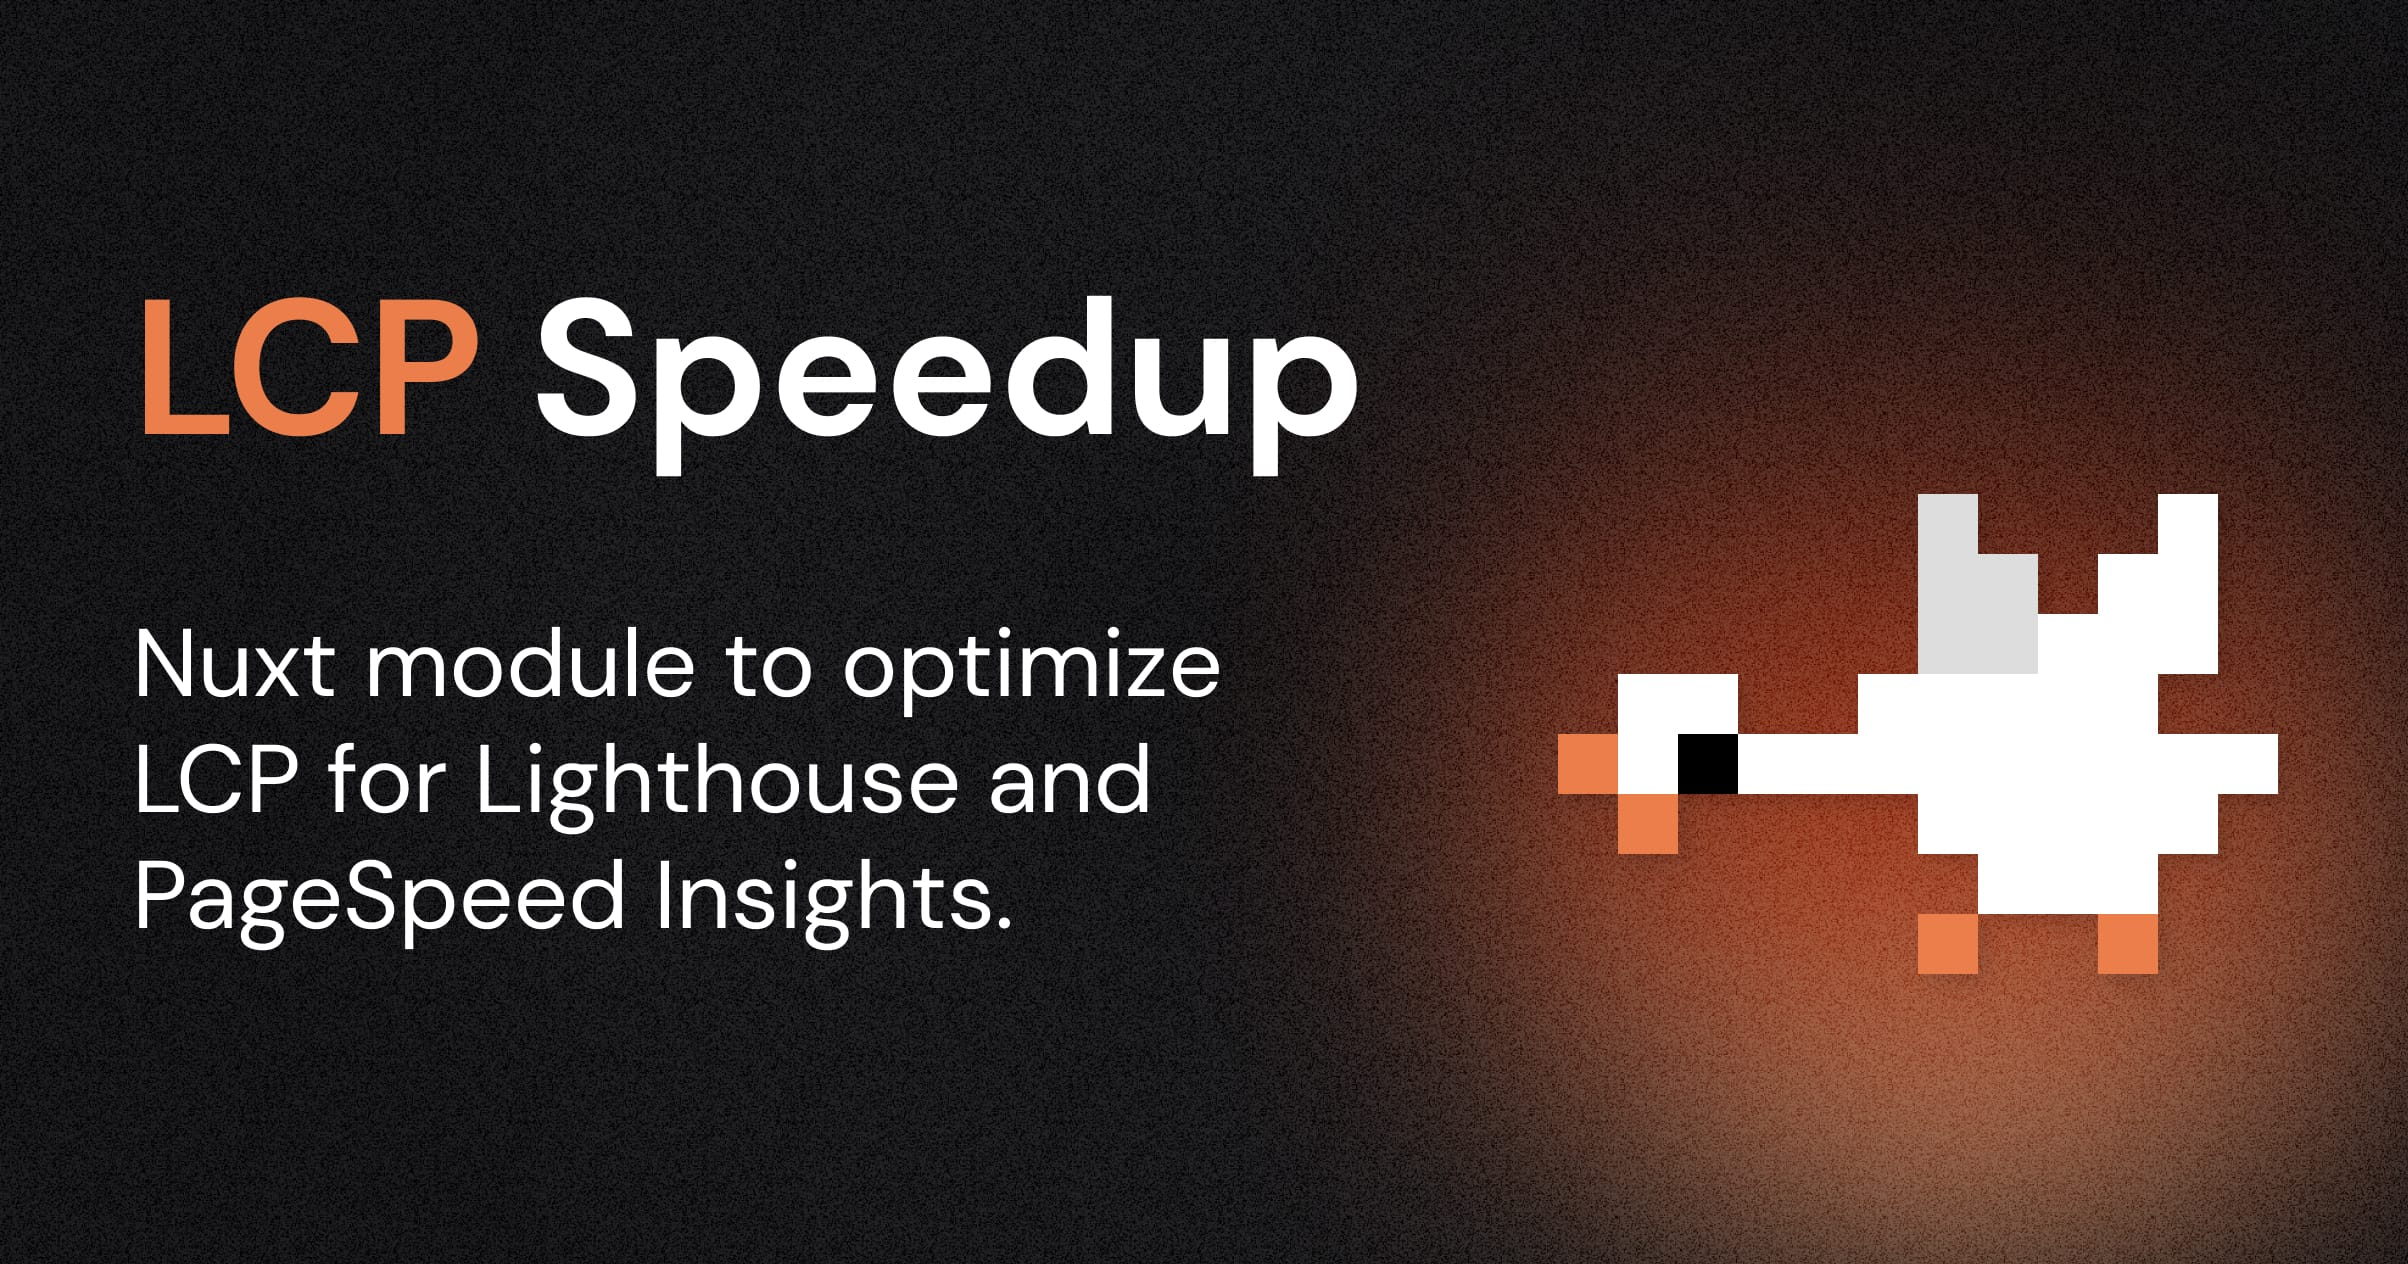
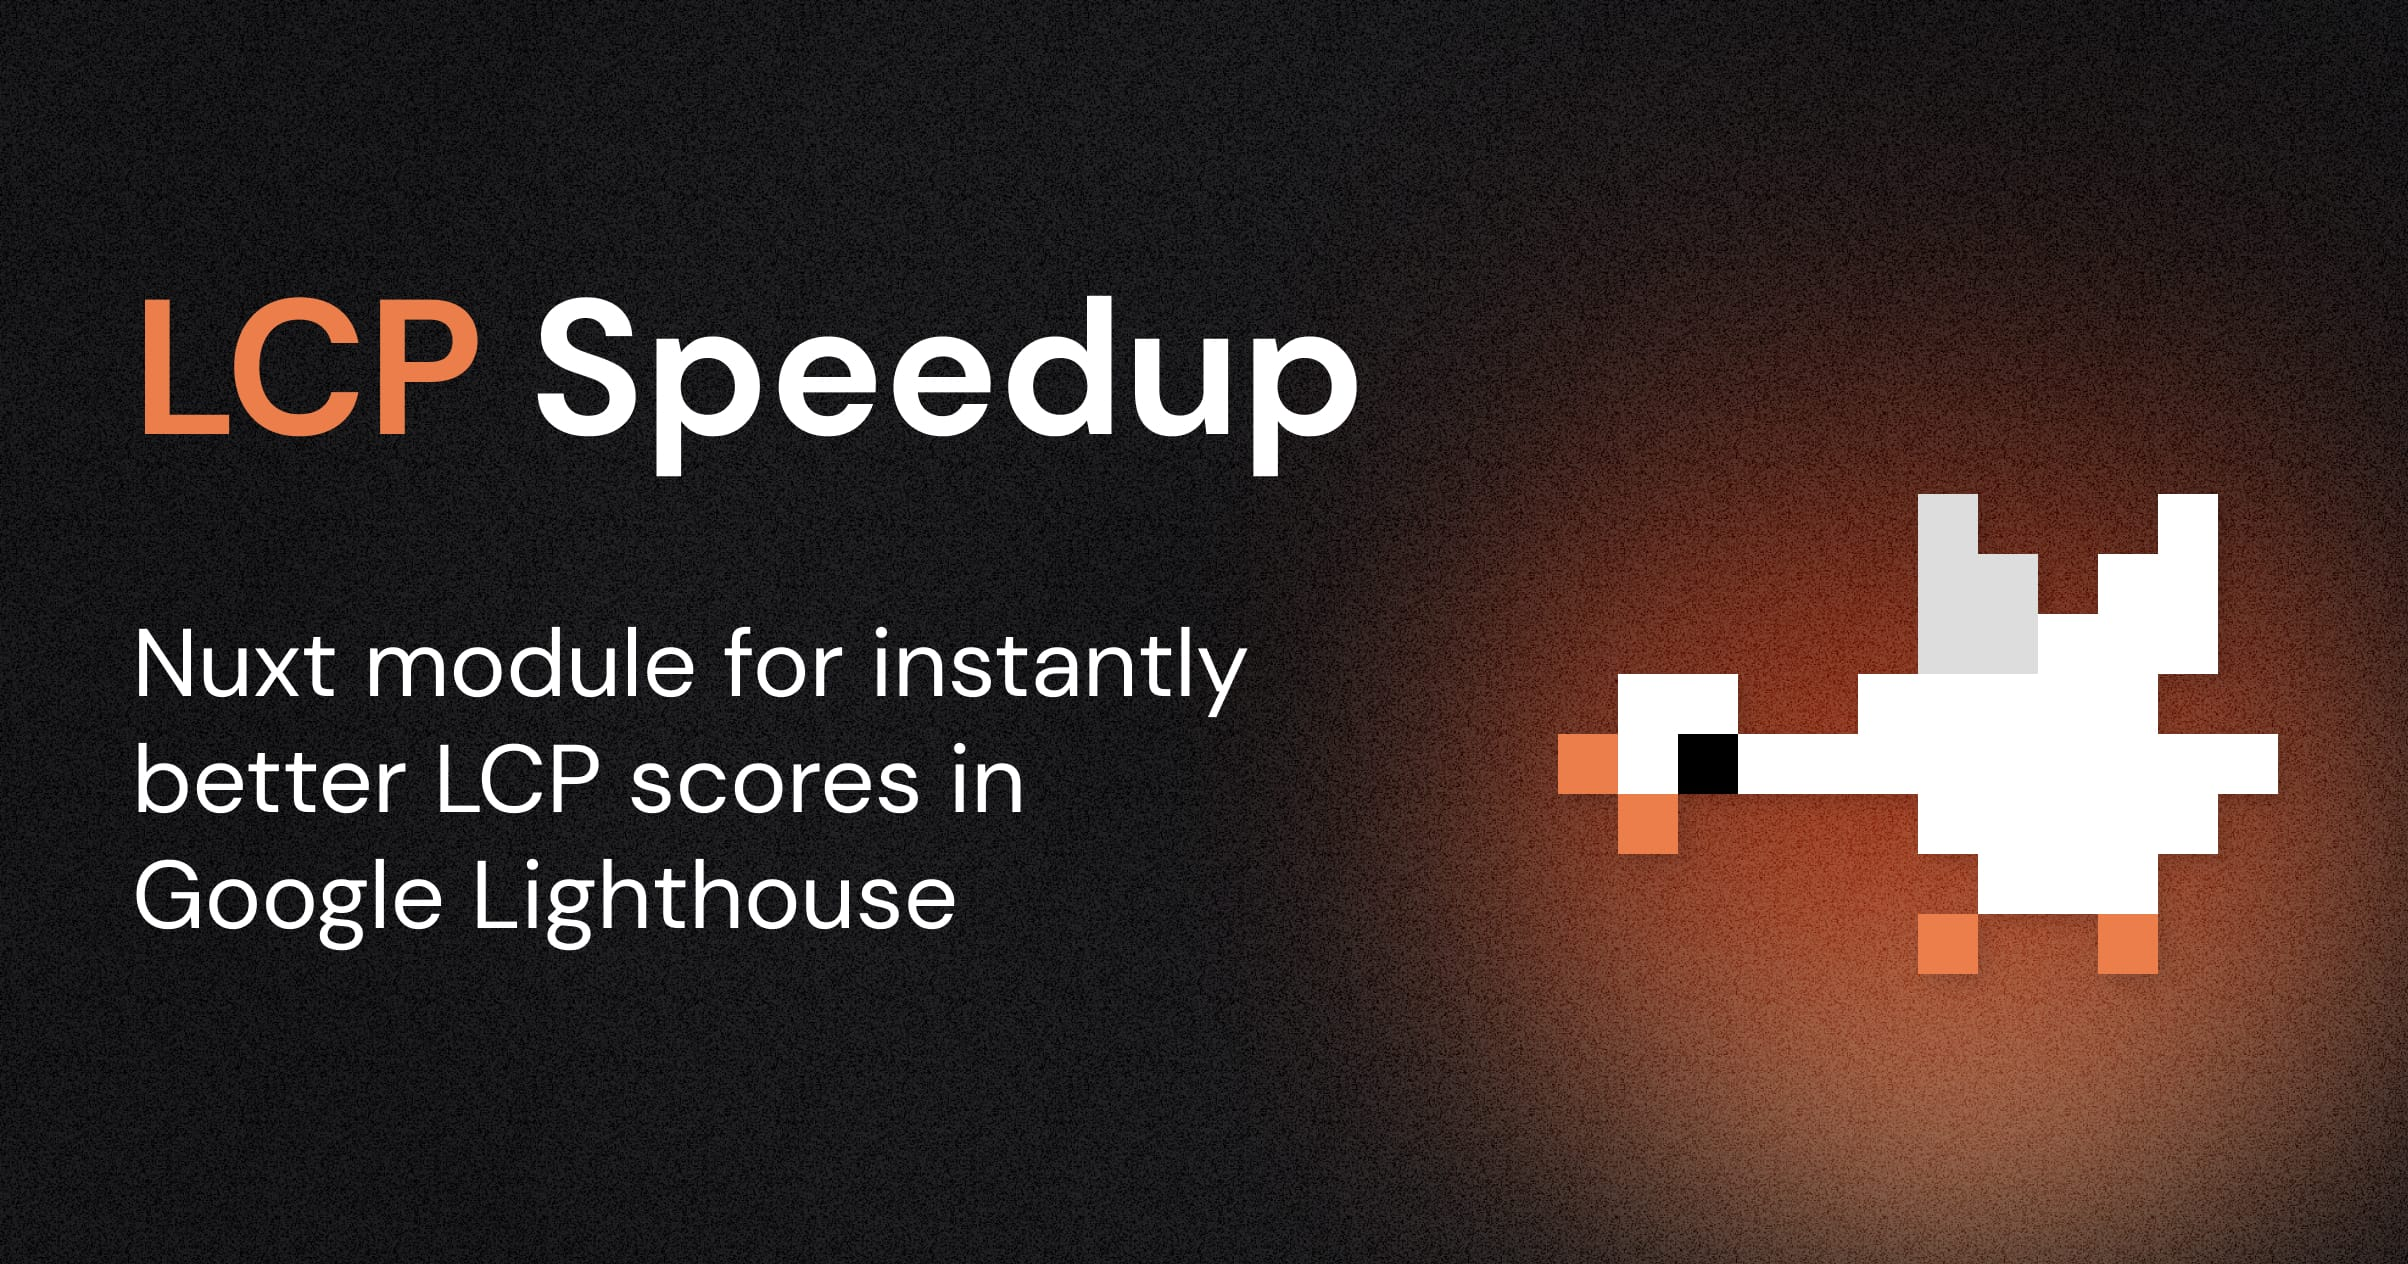
feat: `disableEntryStylesheet` to stop render-blocking css

Changed region(s): [[0.0623, 0.5862, 0.4983, 0.7714], [0.2803, 0.4937, 0.5295, 0.5554]]

diff --git a/src/module.ts b/src/module.ts
@@ -5,18 +5,24 @@ import { name } from '../package.json'
 
 export interface ModuleOptions {
   /**
-   * Whether to disable prefetching of dynamic imports and image assets to optimize the LCP score.
+   * Whether to remove prefetch links from the HTML. If set to `dynamicImports`, only dynamic imports will be removed. To disable all prefetching, set to `true`.
    *
-   * @default true
+   * @remarks
+   * This will prevent the browser from downloading chunks that may not be needed yet. This can be useful for improving the LCP (Largest Contentful Paint) score.
+   *
+   * @default 'dynamicImports'
    */
-  disablePrefetching?: boolean
+  disablePrefetchLinks?: boolean | 'dynamicImports'
 
   /**
-   * List of assets extensions that should not be prefetched.
+   * Whether to remove the render-blocking `entry.<hash>.css` stylesheet from the HTML. Especially useful when styles are inlined during SSR rendering.
    *
-   * @default ['gif', 'jpg', 'jpeg', 'png', 'svg', 'webp']
+   * @remarks
+   * This requires to have the Nuxt `inlineStyles` feature enabled. Make sure to test your application after enabling this option.
+   *
+   * @default false
    */
-  assetExtensions?: string[]
+  disableEntryStylesheet?: boolean
 
   /**
    * Options for the `DelayHydration` component.
@@ -49,8 +55,8 @@ export default defineNuxtModule<ModuleOptions>({
     configKey: 'lcpSpeedup',
   },
   defaults: {
-    disablePrefetching: true,
-    assetExtensions: ['gif', 'jpg', 'jpeg', 'png', 'svg', 'webp'],
+    disablePrefetchLinks: 'dynamicImports',
+    disableEntryStylesheet: false,
     delayHydration: {},
   },
   async setup(options, nuxt) {
@@ -100,22 +106,29 @@ export declare const delayHydrationOptions: Required<Required<ModuleOptions>['de
       },
     })
 
-    if (!nuxt.options._prepare && options.disablePrefetching) {
-      nuxt.hooks.hook('build:manifest', (manifest) => {
-        for (const file of Object.values(manifest)) {
-          // Remove all prefetch links from the manifest
-          file.dynamicImports = []
+    if (nuxt.options._prepare || nuxt.options.dev) return
 
-          // Remove all prefetch assets from the manifest
-          if (file.assets) {
-            file.assets = file.assets.filter(
-              asset => options.assetExtensions!.every(ext => !asset.endsWith(`.${ext}`)),
-            )
+    nuxt.hooks.hook('build:manifest', (manifest) => {
+      for (const item of Object.values(manifest)) {
+        if (options.disablePrefetchLinks) {
+          item.dynamicImports = []
+        }
+
+        if (options.disablePrefetchLinks === true) {
+          item.prefetch = false
+        }
+
+        if (options.disableEntryStylesheet && nuxt.options.features.inlineStyles && item.isEntry && item.css) {
+          // Start from the end of the array and work backwards
+          for (let i = item.css.length - 1; i >= 0; i--) {
+            if (item.css[i].startsWith('entry')) {
+              item.css.splice(i, 1)
+            }
           }
         }
-      })
+      }
+    })
 
-      logger.success('Optimized LCP score')
-    }
+    logger.success('Optimized LCP score')
   },
 })

diff --git a/playground/app.vue b/playground/app.vue
@@ -1,5 +1,6 @@
 <script setup lang="ts">
 import { useServerHead } from '#imports'
+import NuxtIcon from '~/assets/icon-green.svg'
 
 useServerHead({
   title: 'Nuxt LCP Speedup',
@@ -14,8 +15,23 @@ useServerHead({
     <h1>Nuxt LCP Speedup</h1>
   </header>
 
+  <h2>Images</h2>
+  <img
+    v-if="NuxtIcon"
+    :src="NuxtIcon"
+    alt="Nuxt icon"
+    class="icon"
+  >
+
   <h2>Delay Component Hydration</h2>
   <DelayHydration>
     <PlaygroundText />
   </DelayHydration>
 </template>
+
+<style>
+.icon {
+  width: 100px;
+  height: 100px;
+}
+</style>

diff --git a/playground/components/PlaygroundText.vue b/playground/components/PlaygroundText.vue
@@ -3,5 +3,13 @@ const title = 'Lorem ium dolor sit amet'
 </script>
 
 <template>
-  <p>{{ title }}</p>
+  <p class="text">
+    {{ title }}
+  </p>
 </template>
+
+<style scoped>
+.text {
+  color: goldenrod;
+}
+</style>

diff --git a/README.md b/README.md
@@ -2,27 +2,19 @@
 
 # Nuxt LCP Speedup
 
-A [Nuxt](https://nuxt.com) workaround as a _do-one-thing-well_ module to optimize Largest Contentful Paint (LCP) for Lighthouse and Google PageSpeed Insights.
+A collection of workarounds as a _do-one-thing-well_ [Nuxt](https://nuxt.com) module to optimize the Largest Contentful Paint (LCP) in Google Lighthouse and Google PageSpeed Insights.
+
+This module provides a solution for the following Nuxt issues (among others):
+
+- [Disable prefetch for dynamic imports](https://github.com/nuxt/nuxt/issues/18376) (#18376)
+- [Optimizations for prefetching chunks](https://github.com/nuxt/nuxt/issues/14584) (#14584)
 
 ## Features
 
-- ⚙ Zero-config setup
-- 🚀 Prevents prefetching of dynamic imports and image assets
-- 🔥 `DelayHydration` component to reduce the "Blocking Time" metric
+- 🚀 Better LCP with zero configuration
+- 🫸 Stop render-blocking CSS
+- 🔥 `DelayHydration` component to reduce the Blocking Time metric
 - 💨 `SkipHydration` component keeps SSR content for the initial render
-
-## Why?
-
-Large Nuxt applications can suffer from poor performance scores in Lighthouse and Google PageSpeed Insights due to `<link rel="prefetch">` tags accumulating in the HTML. This module removes prefetchable chunks from the build manifest to improve the LCP score.
-
-For each dynamic import, such as asynchronous components and other assets such as images, a `<link rel="prefetch">` is rendered by Nuxt. This causes the browser to prefetch these chunks, even if they are not needed on the current page. While this is great for the overall performance of the application, it can lead to a high number of prefetch requests, which negatively affects the Largest Contentful Paint score.
-
-This module is a workaround that hooks into the Nuxt build process to optimize the LCP score by:
-
-- Disabling rendering `prefetch` links for dynamic imports.
-- Preventing image assets (`gif`, `jpg`, `jpeg`, `png`, `svg`, and `webp`) from being prefetched. You can customize this list in the [module options](#module-options).
-
-![Lighthouse SEO performance score when using the module](./.github/lighthouse-seo-performance.png)
 
 ## Setup
 
@@ -49,8 +41,57 @@ export default defineNuxtConfig({
   modules: ['nuxt-lcp-speedup'],
 
   lcpSpeedup: {
-    // Set the asset extensions that should not be prefetched
-    assetExtensions: ['webp']
+    // Remove the render-blocking entry CSS
+    disableEntryStylesheet: true
+  }
+})
+```
+
+## LCP Optimization Features
+
+With the optimization features of this module applied, you can reach a higher Lighthouse performance score:
+
+![Lighthouse SEO performance score when using the module](./.github/lighthouse-seo-performance.png)
+
+### Disable Prefetch Links for Dynamic Imports
+
+> [!INFO]
+> This feature is enabled by default.
+
+Large Nuxt applications can suffer from poor performance scores in Lighthouse and Google PageSpeed Insights due to `<link rel="prefetch">` tags accumulating in the HTML.
+
+For each dynamic import, such as asynchronous components and other assets such as images, a `prefetch` link is rendered. This causes the browser to prefetch these chunks, even if they are not needed on the current page. While this is great for the overall performance of the application, it can lead to a high number of prefetch requests, which negatively affects the Largest Contentful Paint score.
+
+This module hooks into the Nuxt build process to optimize the LCP score by disabling the rendering of `prefetch` links for dynamic imports.
+
+### Stop Render-Blocking CSS
+
+> [!INFO]
+> This feature has to be enabled manually. In order to use it, you need to have the Nuxt `inlineStyles` feature enabled. Make sure to test your application after enabling this option.
+
+> [!WARNING]
+> Due to [a bug in Nuxt](https://github.com/nuxt/nuxt/issues/26514), this feature may not work as expected in current Nuxt versions. It will be fixed in Nuxt 3.12.
+
+While the latest Nuxt versions inline styles during SSR rendering, the `entry.<hash>.css` stylesheet is still rendered in the HTML. This can lead to render-blocking CSS, which can negatively affect the Largest Contentful Paint score.
+
+CSS stylesheets are render-blocking resources, which means that the browser has to download and parse the CSS before rendering the page. By removing the `entry.<hash>.css` stylesheet from the HTML, the browser can render the page faster, which can improve the LCP score.
+
+First, try to import the main application styles in the `app.vue` file. They will be saved as the `entry` CSS file when Nuxt is built:
+
+```ts
+// `app.vue`
+import '~/assets/css/main.css'
+```
+
+Now, enable the `disableEntryStylesheet` option in the module configuration to remove the render-blocking stylesheet from the HTML:
+
+```ts
+// `nuxt.config.ts`
+export default defineNuxtConfig({
+  modules: ['nuxt-lcp-speedup'],
+
+  lcpSpeedup: {
+    disableEntryStylesheet: true
   }
 })
 ```
@@ -130,18 +171,24 @@ Use the `SkipHydration` component in your Vue components:
 ```ts
 interface ModuleOptions {
   /**
-   * Whether to disable prefetching of dynamic imports and image assets to optimize the LCP score.
+   * Whether to remove prefetch links from the HTML. If set to `dynamicImports`, only dynamic imports will be removed. To disable all prefetching, set to `true`.
    *
-   * @default true
+   * @remarks
+   * This will prevent the browser from downloading chunks that may not be needed yet. This can be useful for improving the LCP (Largest Contentful Paint) score.
+   *
+   * @default 'dynamicImports'
    */
-  disablePrefetching?: boolean
+  disablePrefetchLinks?: boolean | 'dynamicImports'
 
   /**
-   * List of assets extensions that should not be prefetched.
+   * Whether to remove the render-blocking `entry.<hash>.css` stylesheet from the HTML. Especially useful when styles are inlined during SSR rendering.
    *
-   * @default ['gif', 'jpg', 'jpeg', 'png', 'svg', 'webp']
+   * @remarks
+   * This requires to have the Nuxt `inlineStyles` feature enabled. Make sure to test your application after enabling this option.
+   *
+   * @default false
    */
-  assetExtensions?: string[]
+  disableEntryStylesheet?: boolean
 
   /**
    * Options for the `DelayHydration` component.
@@ -179,7 +226,7 @@ interface ModuleOptions {
 
 ## Credits
 
-- All the discussions and contributions in the Nuxt GitHub [issue #14584](https://github.com/nuxt/nuxt/issues/14584) and [issue #18376](https://github.com/nuxt/nuxt/issues/18376) that inspired this module.
+- All the discussions and contributions in the Nuxt GitHub issues that inspired this module.
 - [@harlan-zw](https://github.com/harlan-zw) for his inspiring [nuxt-delay-hydration](https://github.com/harlan-zw/nuxt-delay-hydration) module.
 
 ## License
